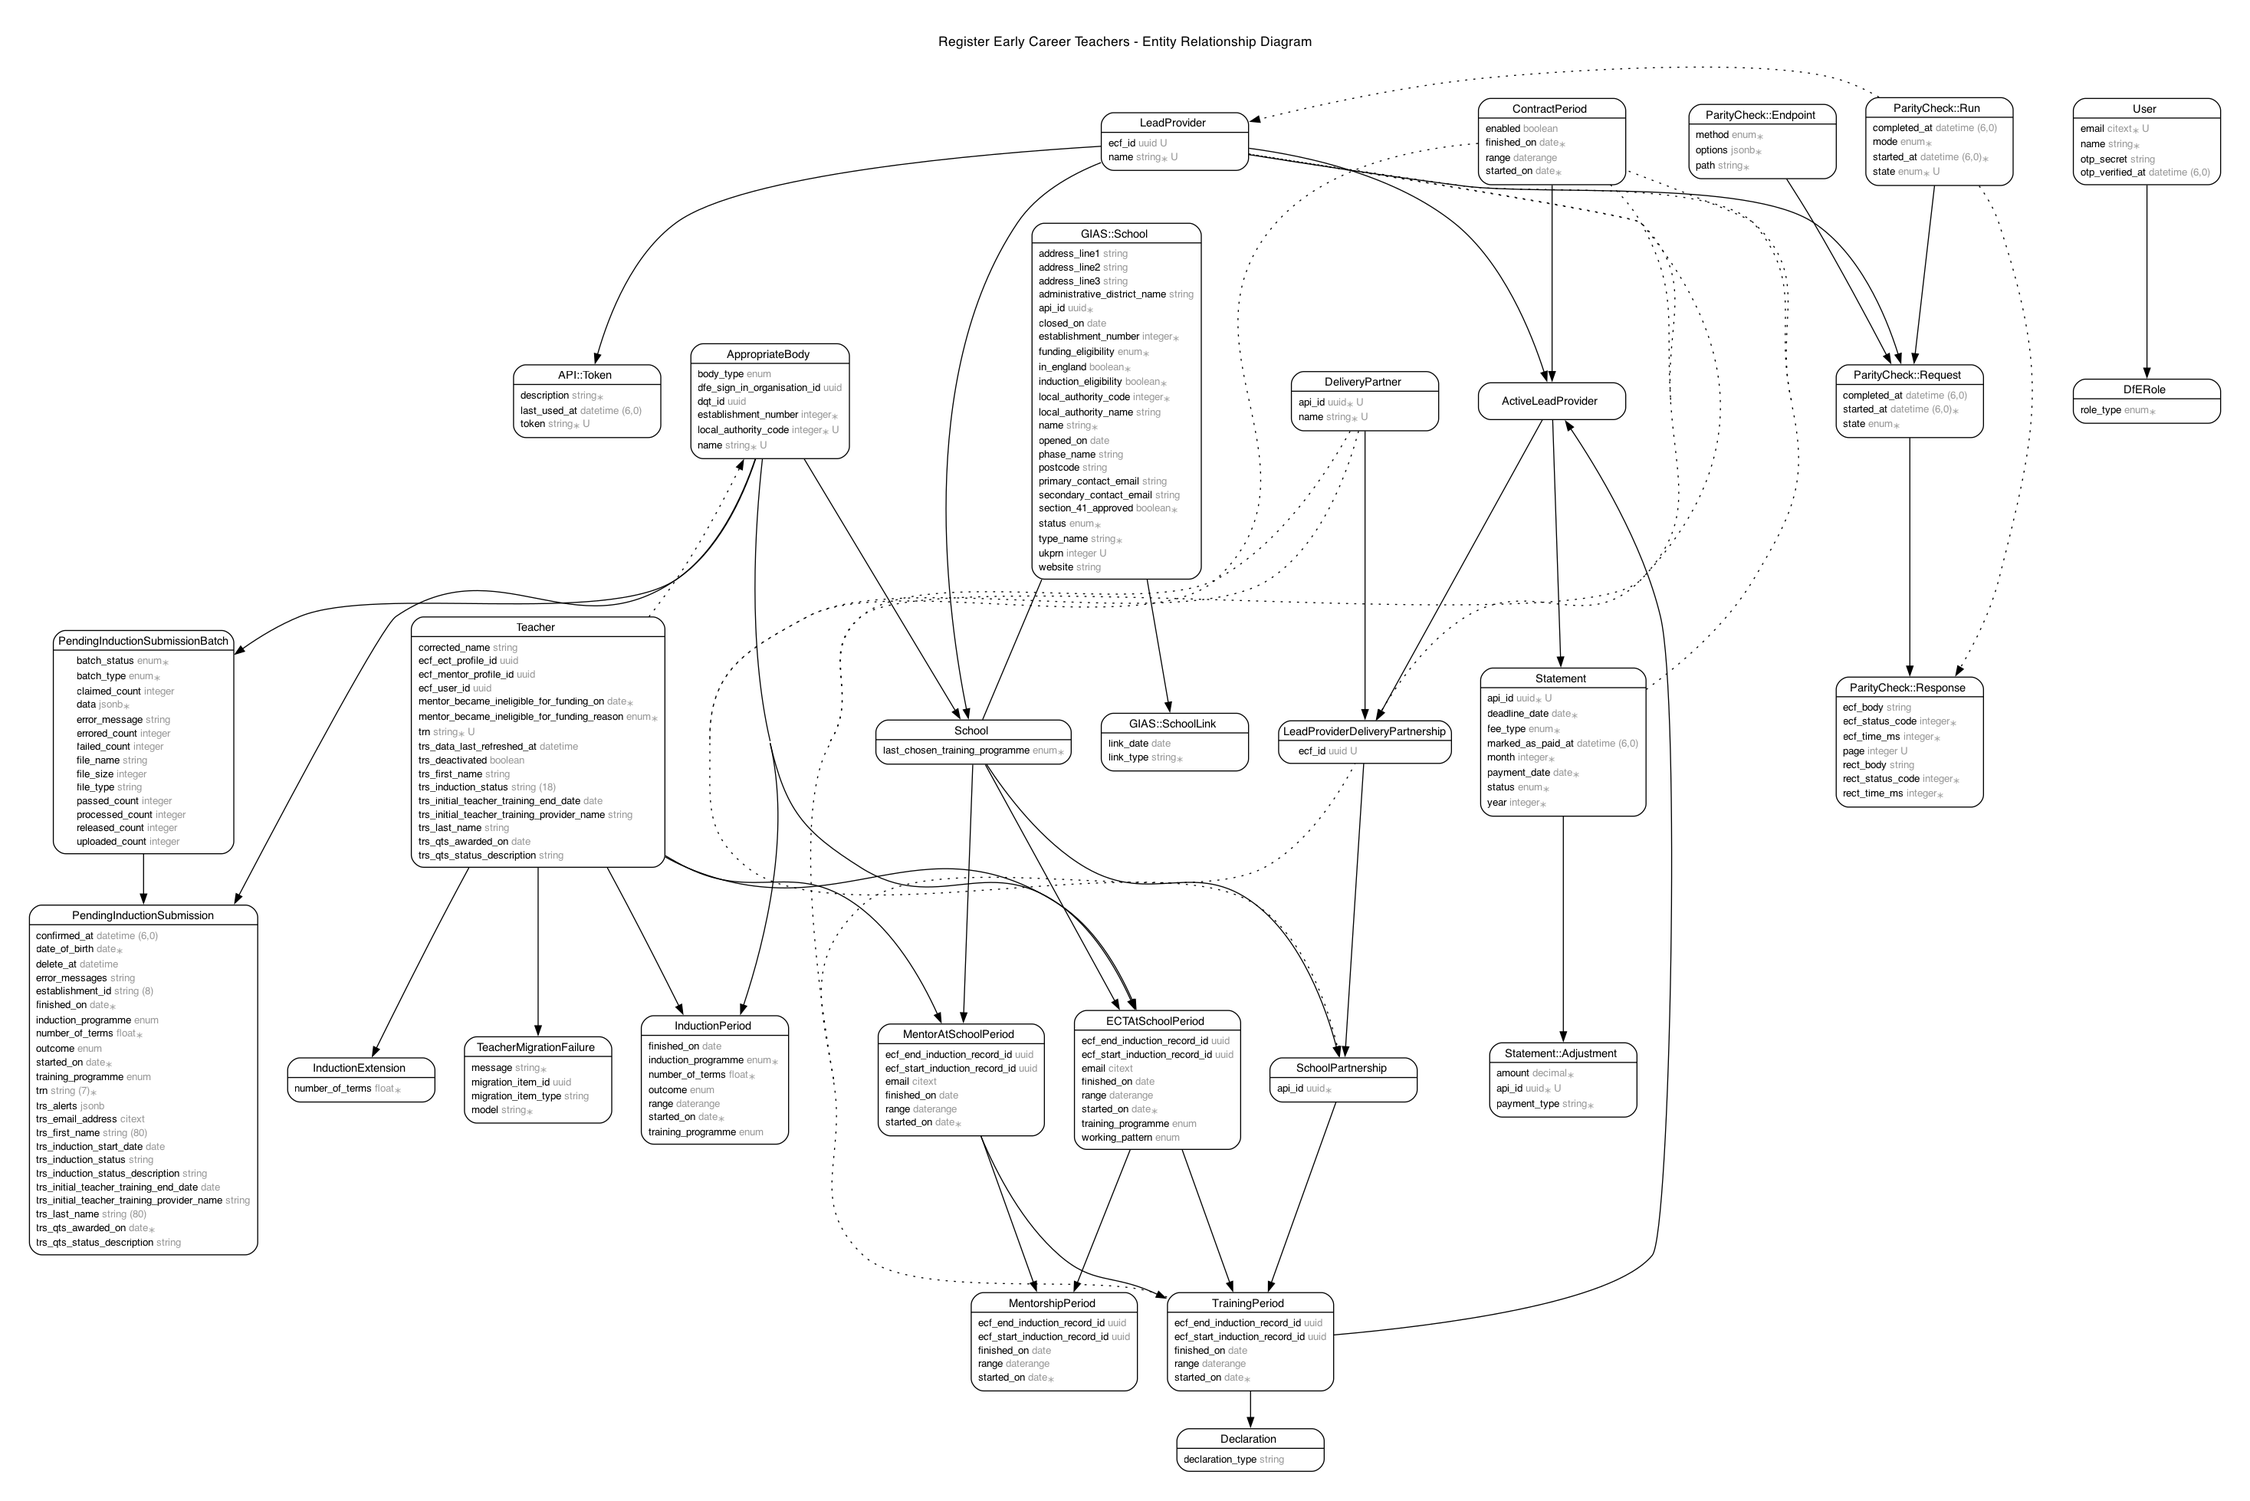
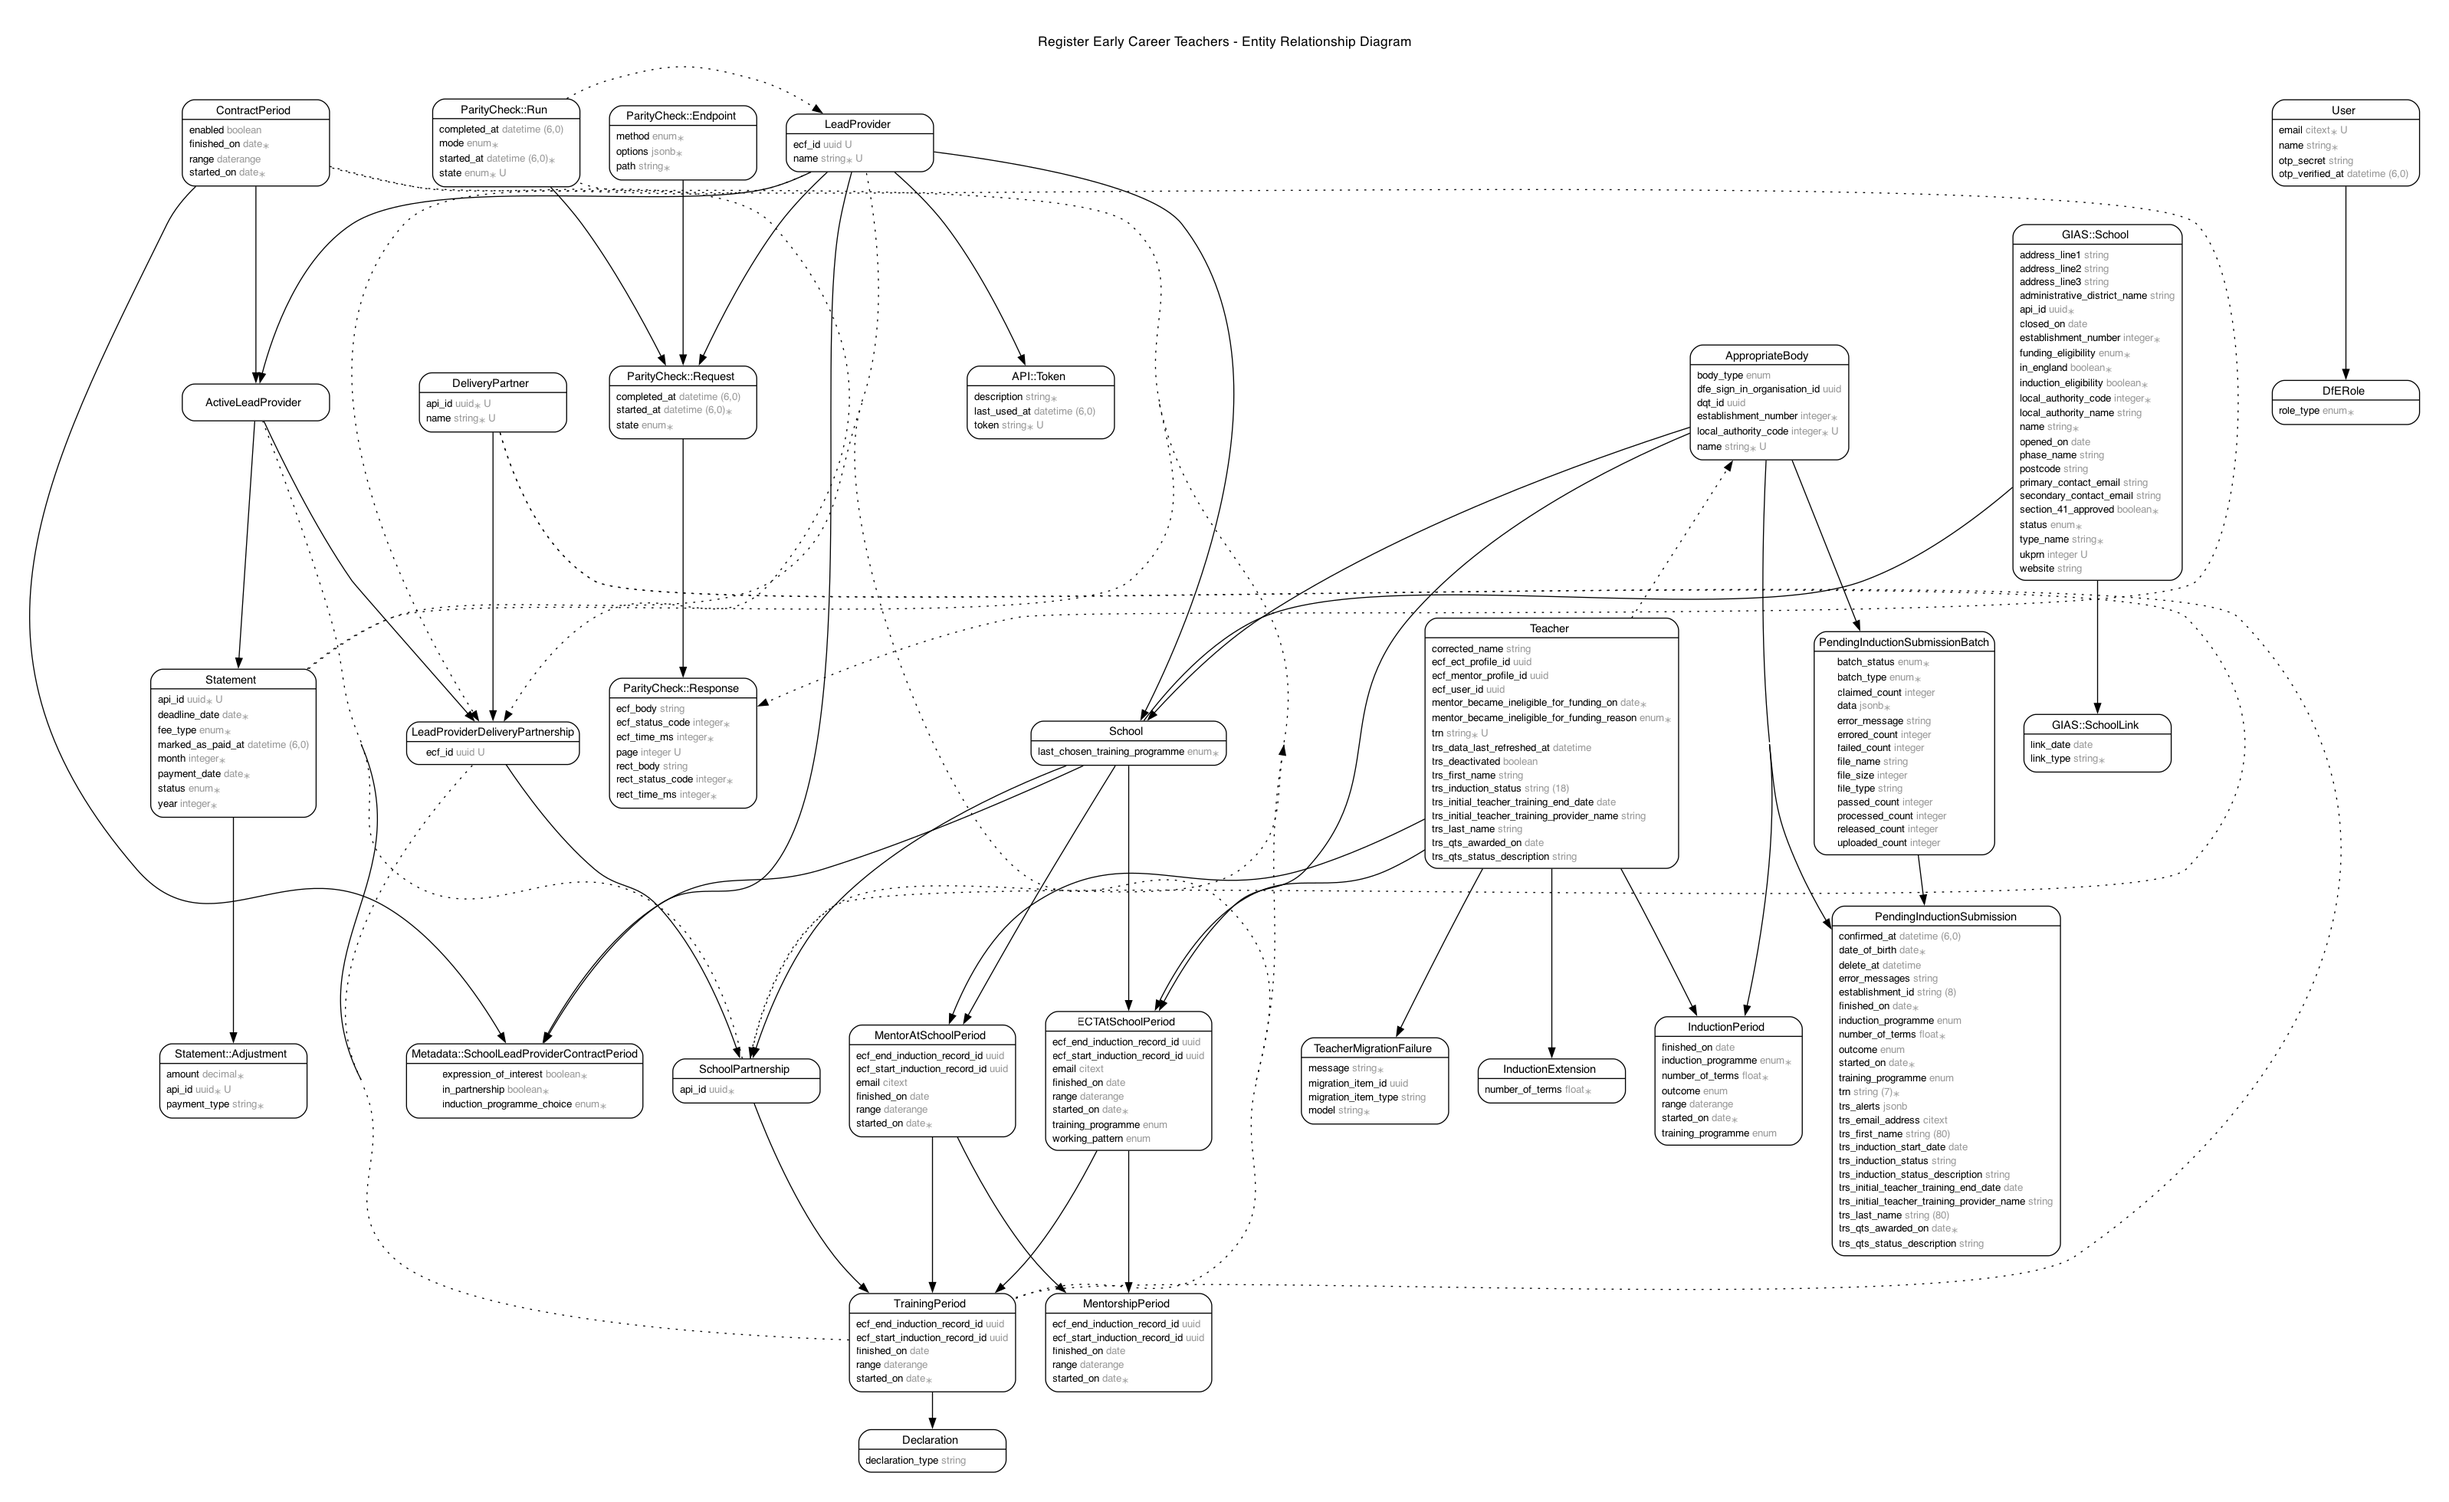
Add `Metadata::SchoolLeadProviderContractPeriod`
Add a model to encapsulate metadata about a school/lead provider/contract
period relationship.

This is school-level data/an aggregation of scoped participant data relative to
the school.

Namespaced under `Metadata` to ensure its not used inappropriately; it is also
locked down so that only the `Metadata` namespace/services can updated the
metadata models.

diff --git a/db/schema.rb b/db/schema.rb
@@ -10,7 +10,7 @@
 #
 # It's strongly recommended that you check this file into your version control system.
 
-ActiveRecord::Schema[8.0].define(version: 2025_07_14_101747) do
+ActiveRecord::Schema[8.0].define(version: 2025_07_23_071927) do
   # These are extensions that must be enabled in order to support this database
   enable_extension "citext"
   enable_extension "pg_catalog.plpgsql"
@@ -29,6 +29,7 @@ ActiveRecord::Schema[8.0].define(version: 2025_07_14_101747) do
   create_enum "gias_school_statuses", ["open", "closed", "proposed_to_close", "proposed_to_open"]
   create_enum "induction_outcomes", ["fail", "pass"]
   create_enum "induction_programme", ["cip", "fip", "diy", "unknown", "pre_september_2021"]
+  create_enum "induction_programme_choice", ["not_yet_known", "provider_led", "school_led"]
   create_enum "mentor_became_ineligible_for_funding_reason", ["completed_declaration_received", "completed_during_early_roll_out", "started_not_completed"]
   create_enum "parity_check_request_states", ["pending", "queued", "in_progress", "completed"]
   create_enum "parity_check_run_modes", ["concurrent", "sequential"]
@@ -508,6 +509,21 @@ ActiveRecord::Schema[8.0].define(version: 2025_07_14_101747) do
     t.index ["urn"], name: "schools_unique_urn", unique: true
   end
 
+  create_table "schools_lead_providers_contract_periods_metadata", force: :cascade do |t|
+    t.bigint "school_id", null: false
+    t.bigint "lead_provider_id", null: false
+    t.bigint "contract_period_id", null: false
+    t.boolean "in_partnership", null: false
+    t.boolean "expression_of_interest", null: false
+    t.enum "induction_programme_choice", null: false, enum_type: "induction_programme_choice"
+    t.datetime "created_at", null: false
+    t.datetime "updated_at", null: false
+    t.index ["contract_period_id"], name: "idx_on_contract_period_id_bb6ce363be"
+    t.index ["lead_provider_id"], name: "idx_on_lead_provider_id_817fe9b8b1"
+    t.index ["school_id", "contract_period_id"], name: "idx_on_school_id_contract_period_id_f05c4eb736", unique: true
+    t.index ["school_id"], name: "idx_on_school_id_cec39b7e6e"
+  end
+
   create_table "solid_queue_blocked_executions", force: :cascade do |t|
     t.bigint "job_id", null: false
     t.string "queue_name", null: false
@@ -766,6 +782,9 @@ ActiveRecord::Schema[8.0].define(version: 2025_07_14_101747) do
   add_foreign_key "schools", "appropriate_bodies", column: "last_chosen_appropriate_body_id"
   add_foreign_key "schools", "gias_schools", column: "urn", primary_key: "urn"
   add_foreign_key "schools", "lead_providers", column: "last_chosen_lead_provider_id"
+  add_foreign_key "schools_lead_providers_contract_periods_metadata", "contract_periods", primary_key: "year"
+  add_foreign_key "schools_lead_providers_contract_periods_metadata", "lead_providers"
+  add_foreign_key "schools_lead_providers_contract_periods_metadata", "schools"
   add_foreign_key "solid_queue_blocked_executions", "solid_queue_jobs", column: "job_id", on_delete: :cascade
   add_foreign_key "solid_queue_claimed_executions", "solid_queue_jobs", column: "job_id", on_delete: :cascade
   add_foreign_key "solid_queue_failed_executions", "solid_queue_jobs", column: "job_id", on_delete: :cascade

diff --git a/spec/models/metadata/school_lead_provider_contract_period_metadata_spec.rb b/spec/models/metadata/school_lead_provider_contract_period_metadata_spec.rb
@@ -1,0 +1,28 @@
+describe Metadata::SchoolLeadProviderContractPeriod do
+  include_context "restricts updates to the Metadata namespace", :school_lead_provider_contract_period_metadata
+
+  describe "enums" do
+    let(:expected_choices) { { not_yet_known: "not_yet_known", provider_led: "provider_led", school_led: "school_led" } }
+
+    it { is_expected.to define_enum_for(:induction_programme_choice).with_values(expected_choices).backed_by_column_of_type(:enum) }
+  end
+
+  describe "associations" do
+    it { is_expected.to belong_to(:school) }
+    it { is_expected.to belong_to(:contract_period) }
+  end
+
+  describe "validations" do
+    subject { FactoryBot.create(:school_lead_provider_contract_period_metadata) }
+
+    it { is_expected.to validate_presence_of(:school) }
+    it { is_expected.to validate_presence_of(:lead_provider) }
+    it { is_expected.to validate_presence_of(:contract_period) }
+    it { is_expected.to allow_values(true, false).for(:in_partnership) }
+    it { is_expected.not_to allow_values(nil, "").for(:in_partnership) }
+    it { is_expected.to allow_values(true, false).for(:expression_of_interest) }
+    it { is_expected.not_to allow_values(nil, "").for(:expression_of_interest) }
+    it { is_expected.to allow_values(*described_class.induction_programme_choices.keys).for(:induction_programme_choice) }
+    it { is_expected.to validate_uniqueness_of(:school_id).scoped_to(:lead_provider_id, :contract_period_id) }
+  end
+end

diff --git a/spec/support/shared_examples/metadata_support.rb b/spec/support/shared_examples/metadata_support.rb
@@ -1,0 +1,33 @@
+module OtherNamespace
+  class TestUpdater
+    def self.perform(model)
+      model.update!(id: 0)
+    end
+  end
+end
+
+module Metadata
+  class TestUpdater
+    def self.perform(model)
+      model.update!(id: 0)
+    end
+  end
+end
+
+RSpec.shared_examples "restricts updates to the Metadata namespace" do |factory|
+  it "allows updates from within the Metadata namespace" do
+    model = FactoryBot.create(factory)
+    expect { Metadata::TestUpdater.perform(model) }.not_to raise_error
+  end
+
+  it "raises an error when updates are made from outside the Metadata namespace" do
+    model = FactoryBot.create(factory)
+    expected_message = "Updates to Metadata::SchoolLeadProviderContractPeriod are only allowed from the Metadata namespace"
+    expect { OtherNamespace::TestUpdater.perform(model) }.to raise_error(Metadata::Base::UpdateRestrictedError, expected_message)
+  end
+
+  it "does not raise an error when bypassing update restrictions" do
+    model = FactoryBot.create(factory)
+    expect { model.class.bypass_update_restrictions { OtherNamespace::TestUpdater.perform(model) } }.not_to raise_error
+  end
+end

diff --git a/db/migrate/20250723071927_create_join_table_schools_lead_providers_contract_periods_metadata.rb b/db/migrate/20250723071927_create_join_table_schools_lead_providers_contract_periods_metadata.rb
@@ -1,0 +1,17 @@
+class CreateJoinTableSchoolsLeadProvidersContractPeriodsMetadata < ActiveRecord::Migration[8.0]
+  def change
+    create_enum :induction_programme_choice, %w[not_yet_known provider_led school_led]
+
+    create_table :schools_lead_providers_contract_periods_metadata do |t|
+      t.references :school, null: false, foreign_key: true, index: true
+      t.references :lead_provider, null: false, foreign_key: true, index: true
+      t.references :contract_period, null: false, foreign_key: { primary_key: :year }, index: true
+      t.boolean :in_partnership, null: false
+      t.boolean :expression_of_interest, null: false
+      t.enum :induction_programme_choice, null: false, enum_type: :induction_programme_choice
+      t.timestamps
+    end
+
+    add_index :schools_lead_providers_contract_periods_metadata, %i[school_id contract_period_id], unique: true
+  end
+end

diff --git a/app/models/metadata/school_lead_provider_contract_period.rb b/app/models/metadata/school_lead_provider_contract_period.rb
@@ -1,0 +1,23 @@
+module Metadata
+  class SchoolLeadProviderContractPeriod < Metadata::Base
+    self.table_name = :schools_lead_providers_contract_periods_metadata
+
+    enum :induction_programme_choice, {
+      not_yet_known: "not_yet_known",
+      provider_led: "provider_led",
+      school_led: "school_led"
+    }
+
+    belongs_to :school
+    belongs_to :lead_provider
+    belongs_to :contract_period
+
+    validates :school, presence: true
+    validates :lead_provider, presence: true
+    validates :contract_period, presence: true
+    validates :in_partnership, inclusion: { in: [true, false] }
+    validates :expression_of_interest, inclusion: { in: [true, false] }
+    validates :induction_programme_choice, inclusion: { in: induction_programme_choices.keys }
+    validates :school_id, uniqueness: { scope: %i[lead_provider_id contract_period_id] }
+  end
+end

diff --git a/app/models/metadata/base.rb b/app/models/metadata/base.rb
@@ -1,0 +1,26 @@
+module Metadata
+  class Base < ApplicationRecord
+    class UpdateRestrictedError < StandardError; end
+
+    self.abstract_class = true
+
+    before_update :ensure_metadata_namespace
+
+    def self.bypass_update_restrictions
+      previous = Thread.current[:bypass_update_restrictions]
+      Thread.current[:bypass_update_restrictions] = true
+      yield
+    ensure
+      Thread.current[:bypass_update_restrictions] = previous
+    end
+
+  private
+
+    def ensure_metadata_namespace
+      return if Thread.current[:bypass_update_restrictions]
+
+      allowed = caller.reject { it.include?(self.class.name) }.any? { it.include?("Metadata::") }
+      raise UpdateRestrictedError, "Updates to #{self.class.name} are only allowed from the Metadata namespace" unless allowed
+    end
+  end
+end

diff --git a/spec/factories/school_lead_provider_contract_period_metadata_factory.rb b/spec/factories/school_lead_provider_contract_period_metadata_factory.rb
@@ -1,0 +1,12 @@
+FactoryBot.define do
+  factory(:school_lead_provider_contract_period_metadata, class: "Metadata::SchoolLeadProviderContractPeriod") do
+    association :school
+    association :contract_period
+    association :lead_provider
+
+    updated_at { Faker::Time.between(from: 1.month.ago, to: Time.zone.now) }
+    in_partnership { Faker::Boolean.boolean }
+    expression_of_interest { Faker::Boolean.boolean }
+    induction_programme_choice { Metadata::SchoolLeadProviderContractPeriod.induction_programme_choices.keys.sample }
+  end
+end

diff --git a/spec/models/school_spec.rb b/spec/models/school_spec.rb
@@ -18,6 +18,7 @@ describe School do
     it { is_expected.to have_many(:mentor_at_school_periods).inverse_of(:school) }
     it { is_expected.to have_many(:mentor_teachers).through(:mentor_at_school_periods).source(:teacher) }
     it { is_expected.to have_many(:school_partnerships) }
+    it { is_expected.to have_many(:lead_provider_contract_period_metadata).class_name("Metadata::SchoolLeadProviderContractPeriod") }
   end
 
   describe 'validations' do

diff --git a/app/models/school.rb b/app/models/school.rb
@@ -20,6 +20,7 @@ class School < ApplicationRecord
   has_many :mentor_at_school_periods, inverse_of: :school
   has_many :mentor_teachers, -> { distinct }, through: :mentor_at_school_periods, source: :teacher
   has_many :school_partnerships
+  has_many :lead_provider_contract_period_metadata, class_name: "Metadata::SchoolLeadProviderContractPeriod"
 
   # Validations
   validates :last_chosen_lead_provider_id,
